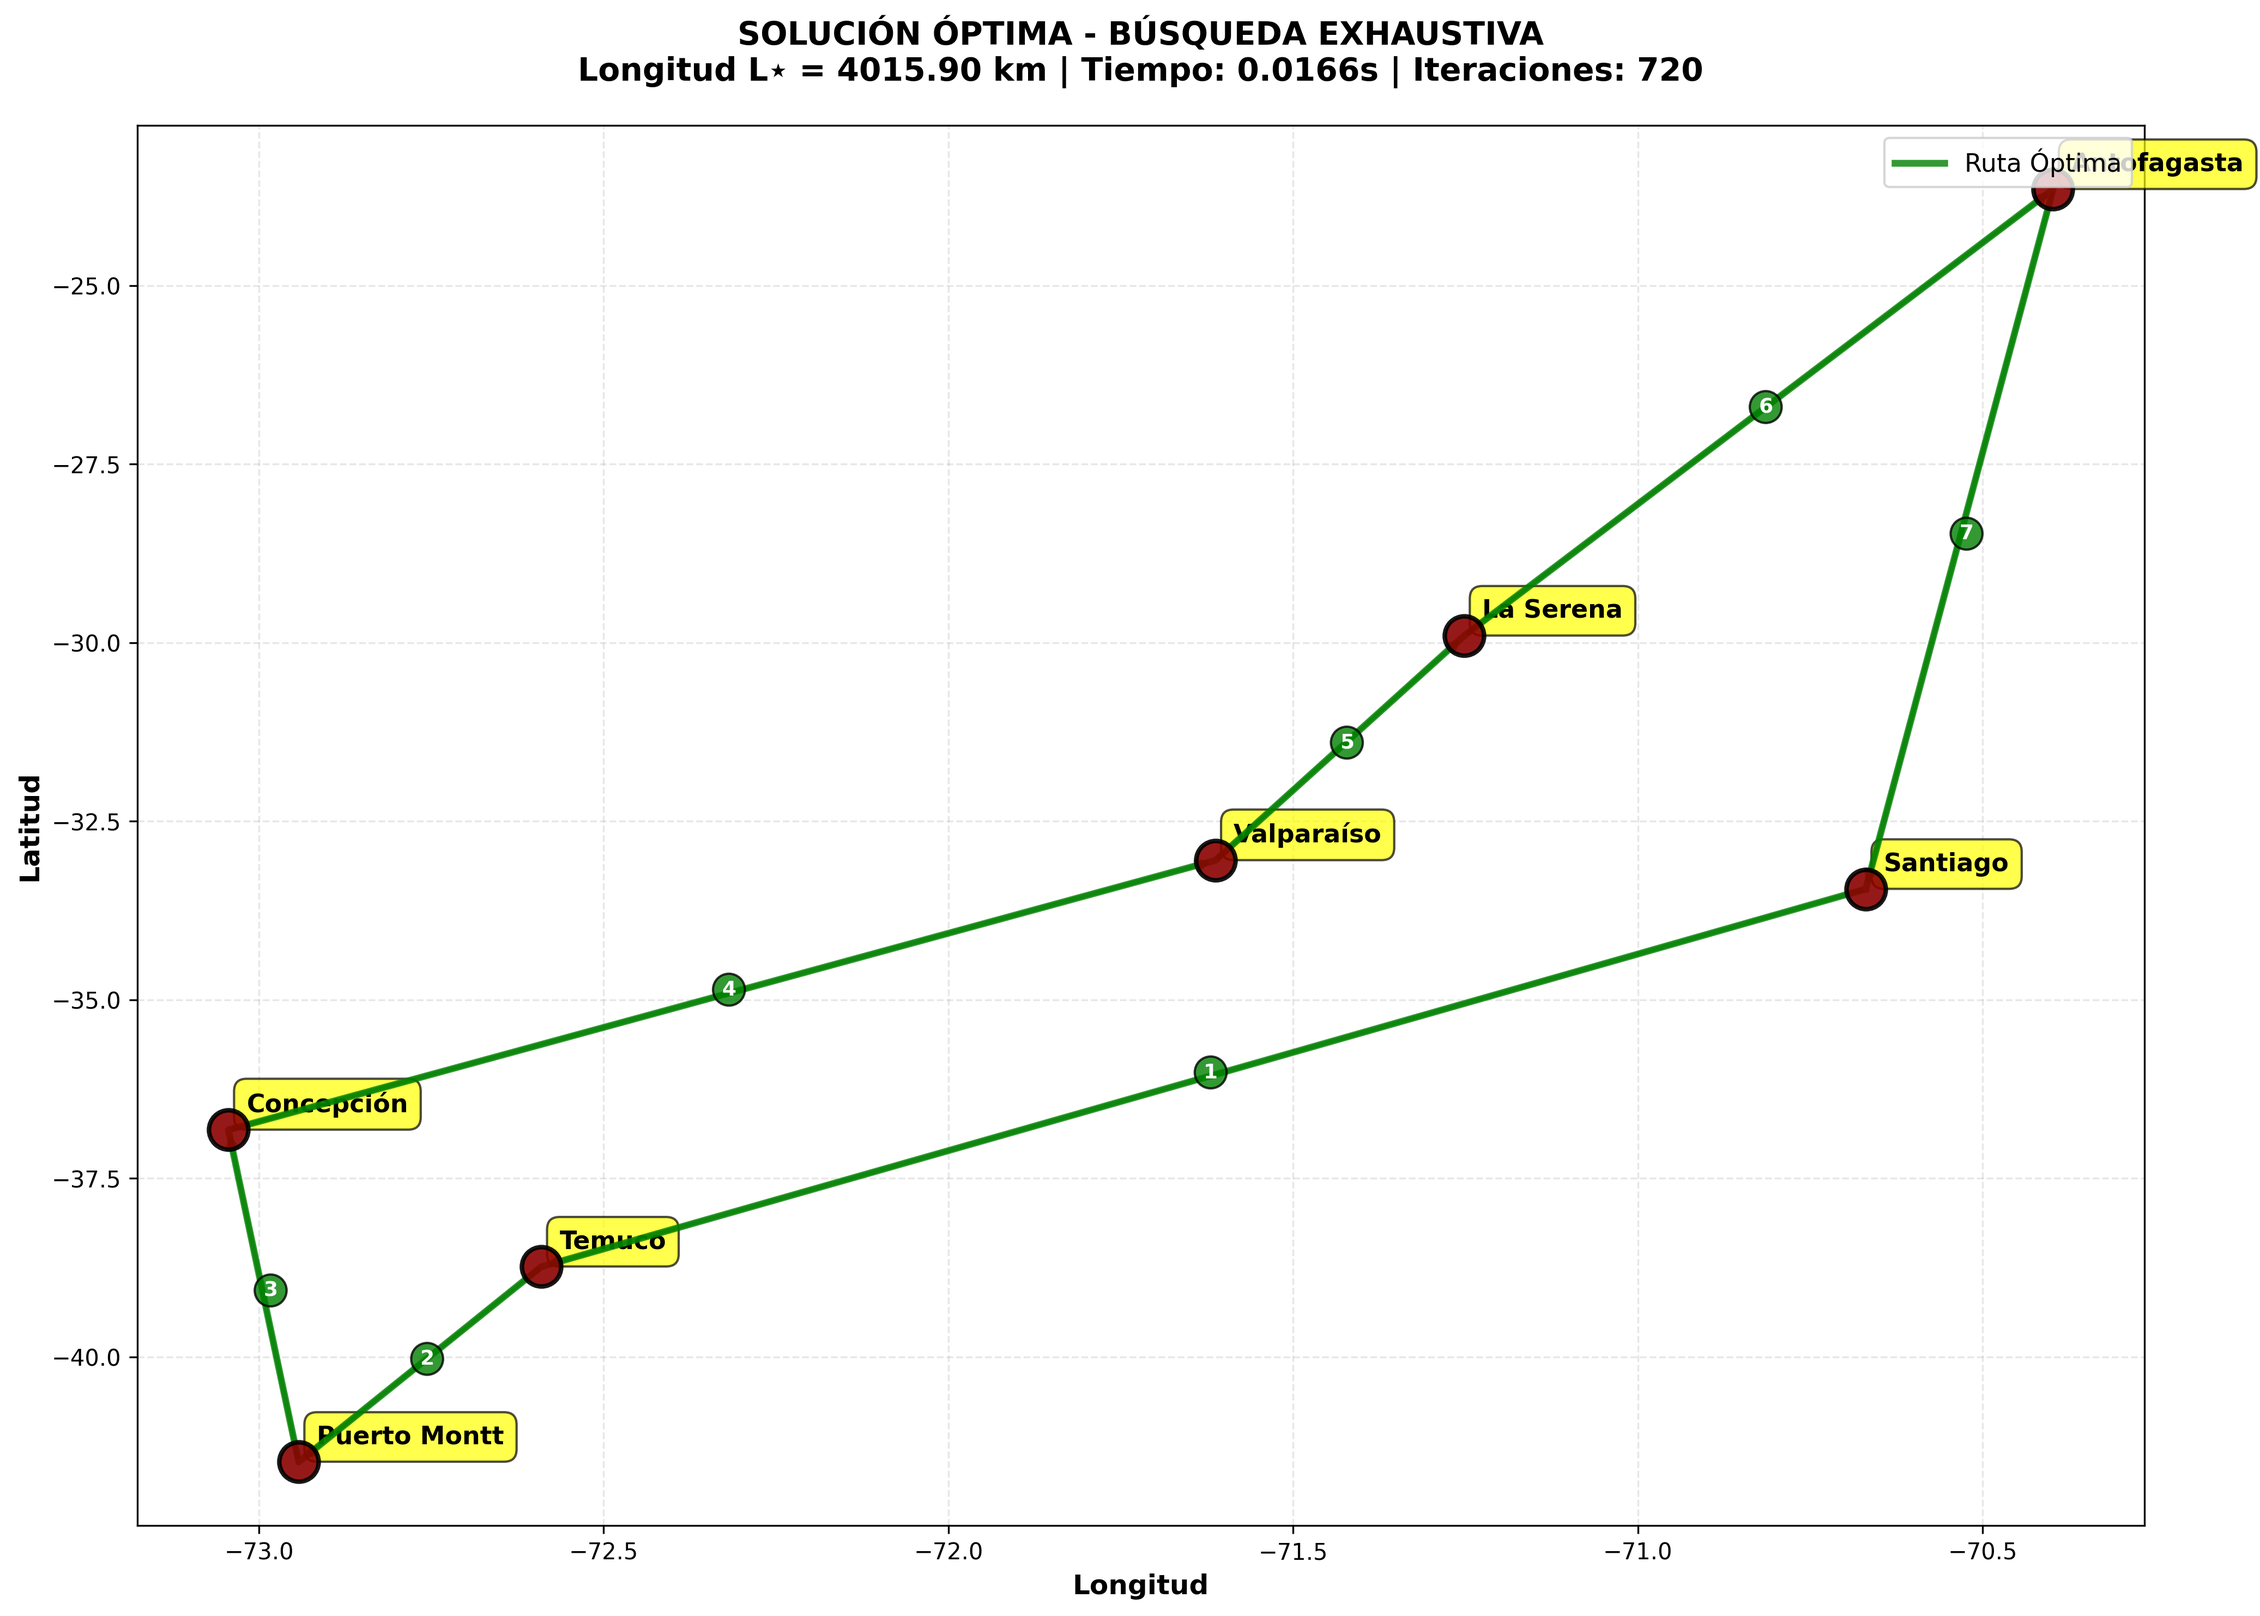
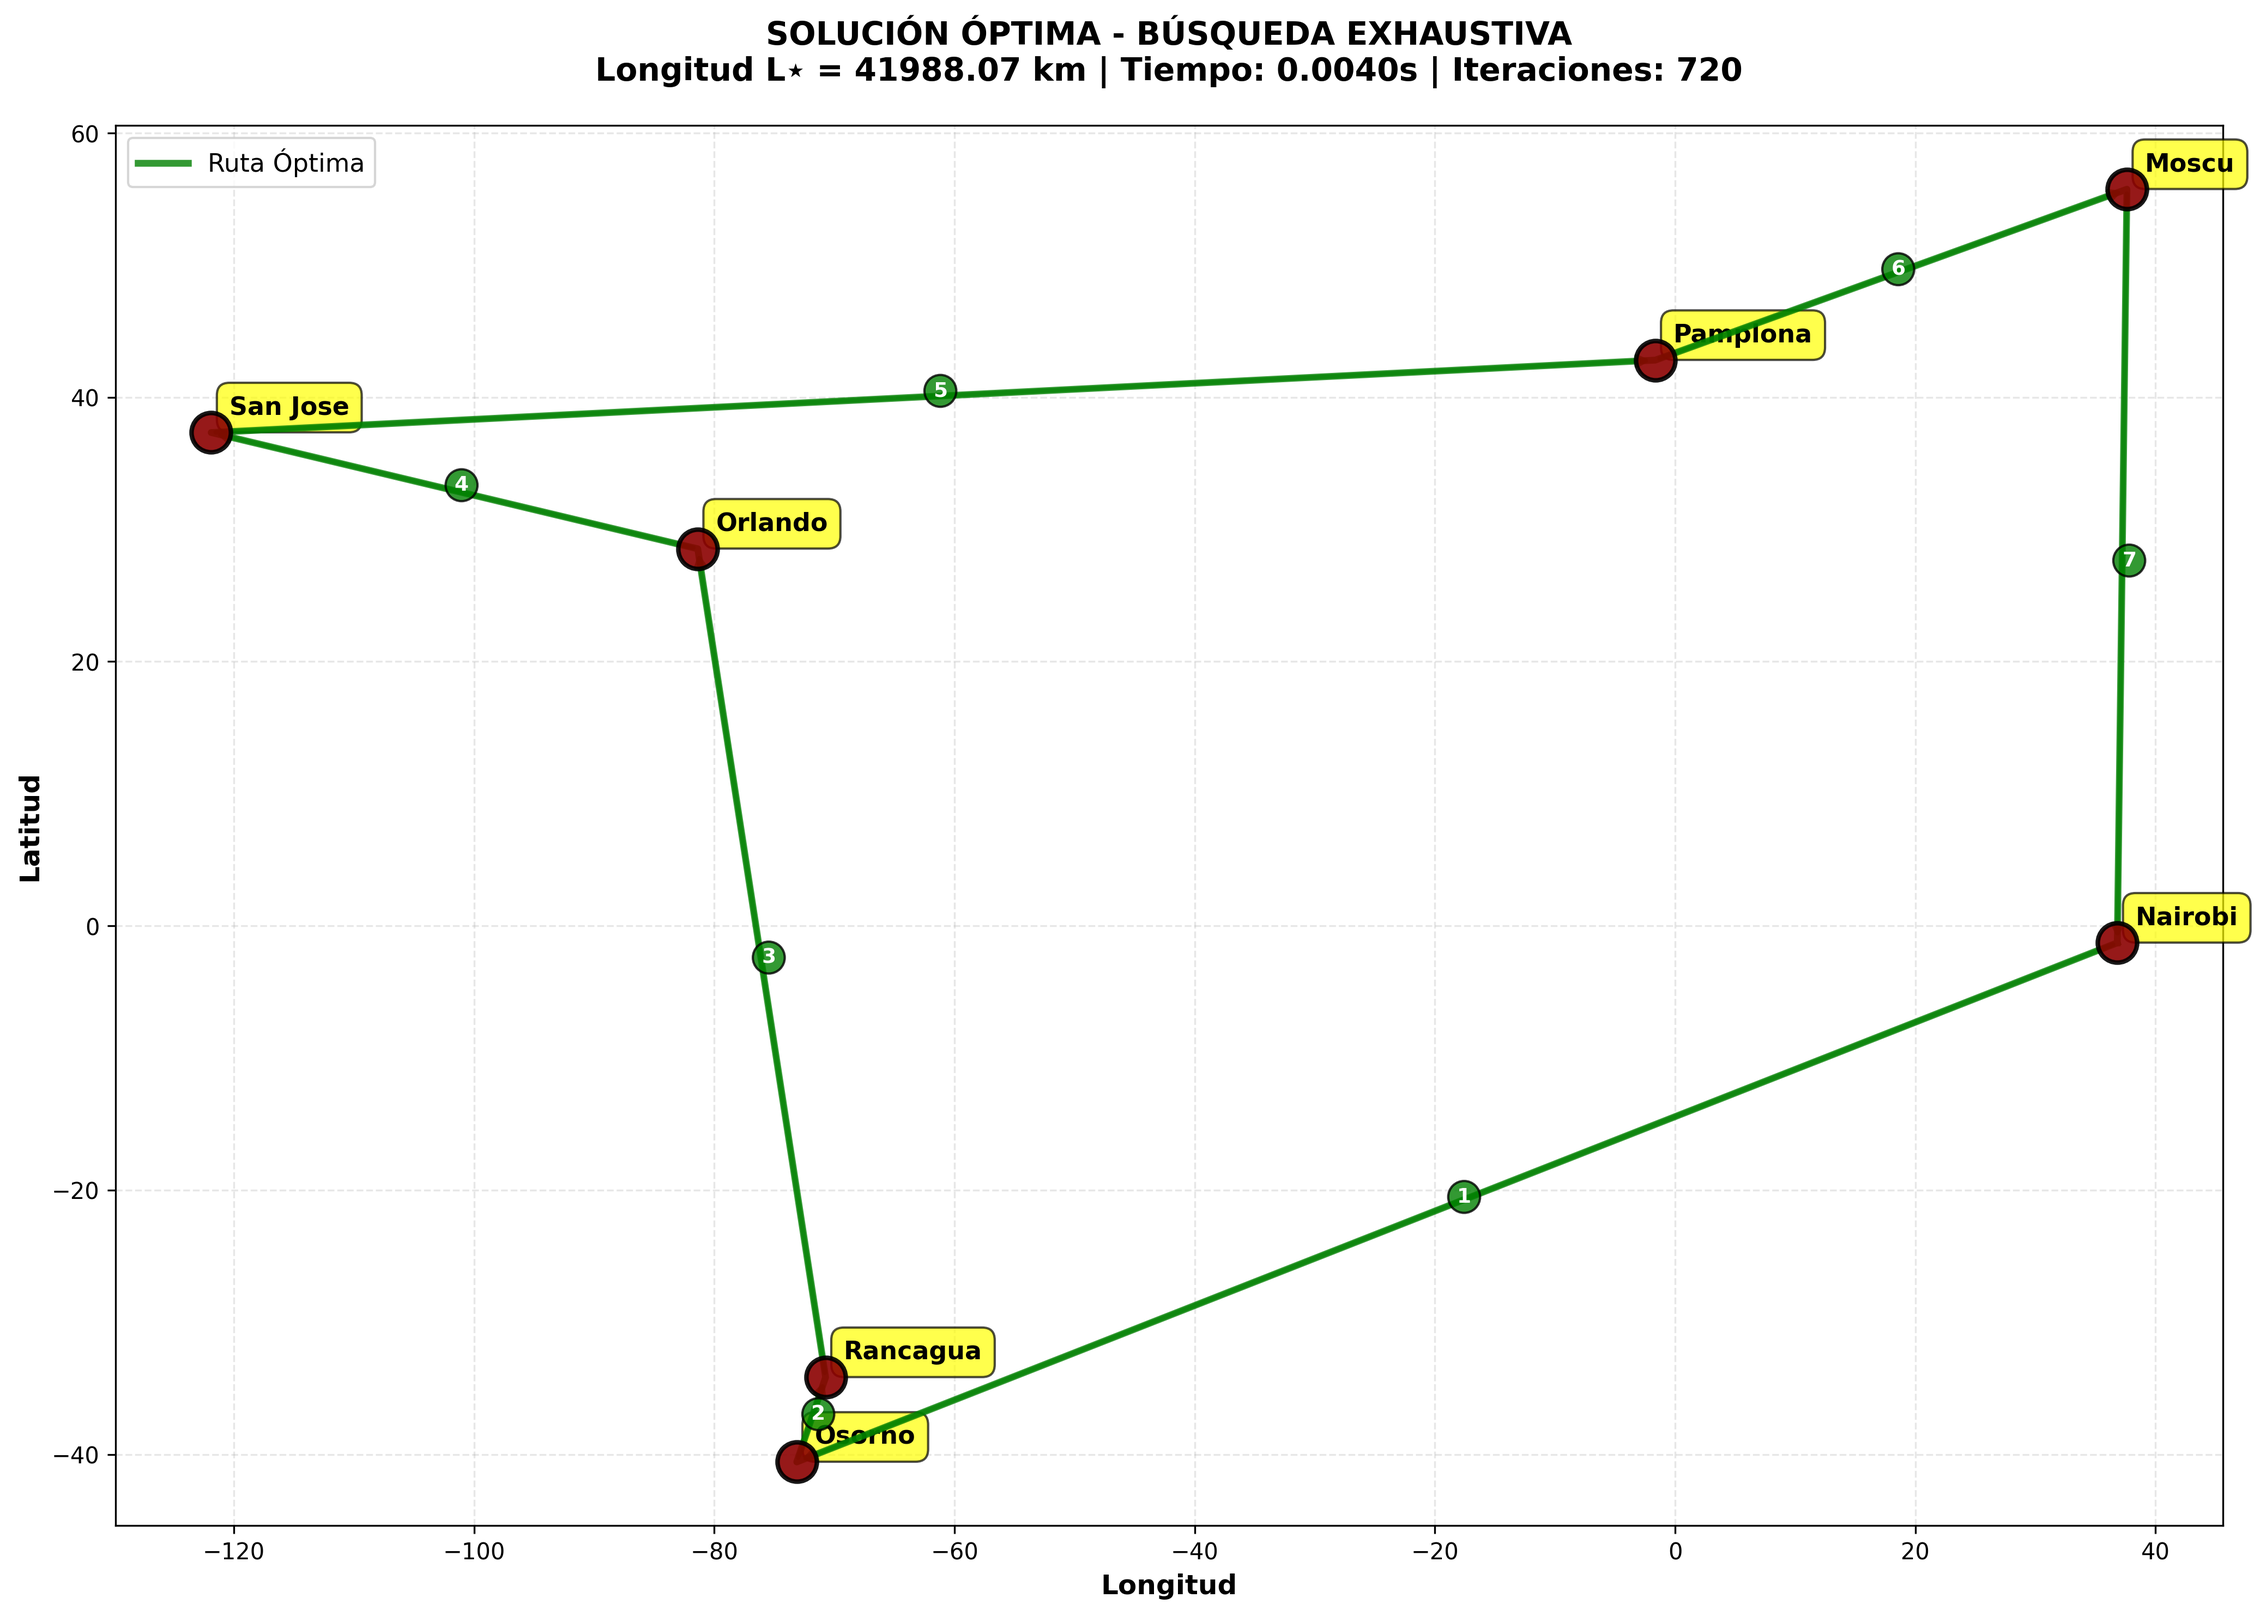
correccion con codigo funcional

diff --git a/algoritmo_exhautivo.py b/algoritmo_exhautivo.py
@@ -4,6 +4,7 @@ from itertools import permutations
 import time
 from matplotlib.animation import FuncAnimation, PillowWriter
 from math import radians, sin, cos, sqrt, atan2
+import math
 
 class TSPExhaustivo:
     
@@ -46,7 +47,7 @@ class TSPExhaustivo:
         print("BÚSQUEDA EXHAUSTIVA - MÉTODO EXACTO")
         print("="*70)
         print(f"Ciudades a visitar: {self.n}")
-        print(f"Permutaciones totales: {np.math.factorial(self.n-1):,}")
+        print(f"Permutaciones totales: {math.factorial(self.n-1):,}")
         print(f"Complejidad: O({self.n}!)")
         print("="*70)
         
@@ -309,13 +310,13 @@ if __name__ == "__main__":
     
     # Definir ciudades (PERSONALIZA SEGÚN TU PROYECTO)
     ciudades = {
-        'Santiago': (-33.4489, -70.6693),
-        'Valparaíso': (-33.0472, -71.6127),
-        'Concepción': (-36.8201, -73.0444),
-        'La Serena': (-29.9027, -71.2519),
-        'Temuco': (-38.7359, -72.5904),
-        'Puerto Montt': (-41.4693, -72.9424),
-        'Antofagasta': (-23.6509, -70.3975)
+        'Nairobi': (-1.2833, 36.8167), 
+        'Osorno': (-40.5739, -73.1360), 
+        'Rancagua': (-34.1667, -70.7333), 
+        'Pamplona': (42.8167, -1.6500), 
+        'Moscu': (55.7517, 37.6178), 
+        'Orlando': (28.5383, -81.3792), 
+        'San Jose': (37.3361, -121.8906) 
     }
     
     # Crear solver

diff --git a/README.md b/README.md
@@ -1,2 +1,3 @@
 # grafos
 lol
+ 
